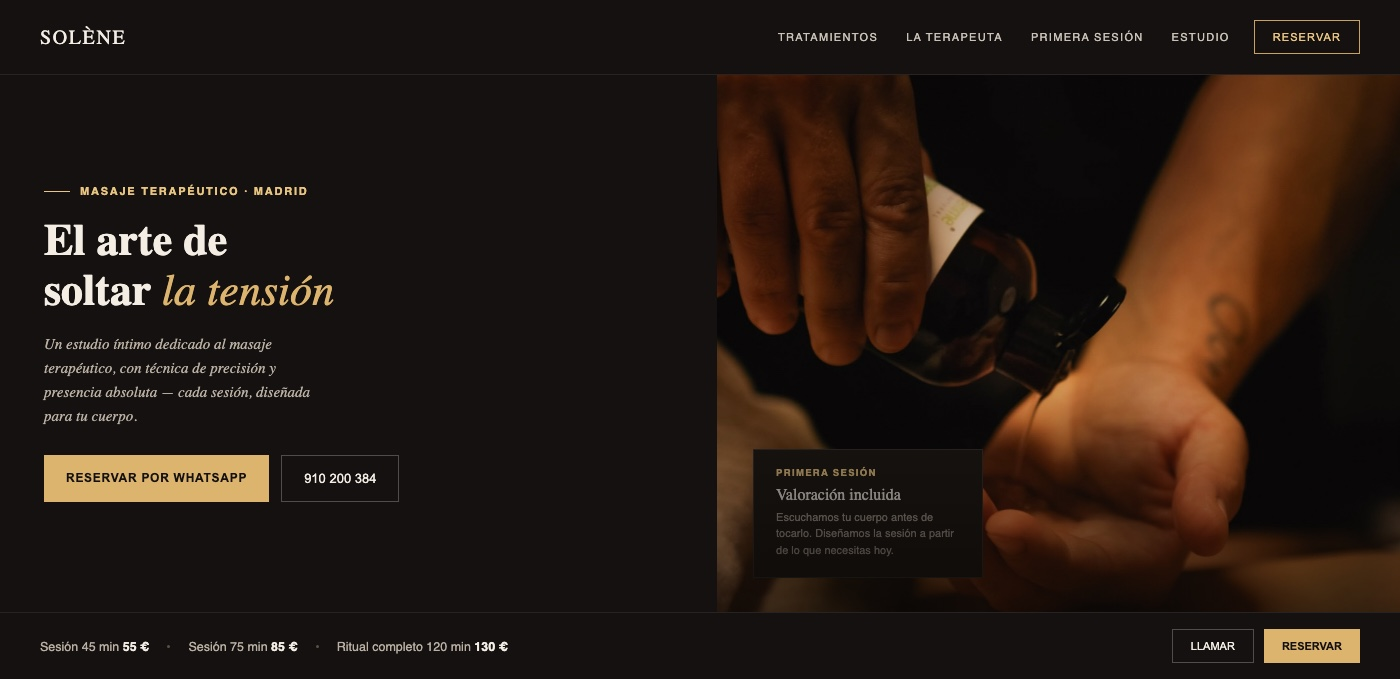
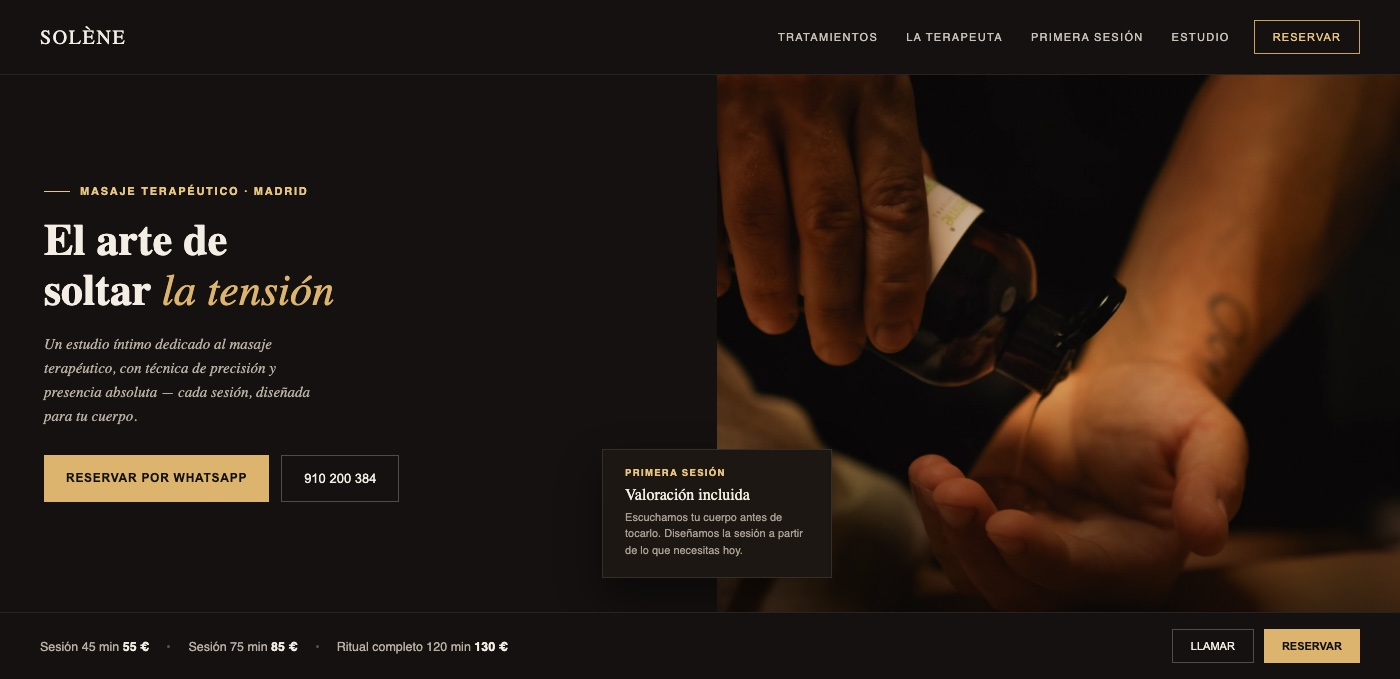
Desplaza la tarjeta "Primera sesión" del mockup: mitad fuera de la foto, mitad dentro
Antes tapaba el punto focal de la imagen (la mano recibiendo el aceite). Ahora cruza el borde entre el panel de texto y la foto, dejando libre esa zona.

Changed region(s): [[0.43, 0.6495, 0.7064, 0.866], [0.6757, 0.8351, 0.7064, 0.866]]

diff --git a/mockups/solene-mockup.html b/mockups/solene-mockup.html
@@ -15,7 +15,7 @@
   .nav-right{display:flex;align-items:center}
   .btn-nav{background:transparent;border:1px solid #c9a35a;color:#e8c581;font-size:11px;letter-spacing:0.1em;padding:10px 18px;font-weight:500}
 
-  .hero{flex:1;display:grid;grid-template-columns:1.05fr 1fr;overflow:hidden}
+  .hero{flex:1;display:grid;grid-template-columns:1.05fr 1fr;overflow:hidden;position:relative}
   .hero-text{padding:36px 44px;display:flex;flex-direction:column;justify-content:center;position:relative}
   .kicker{display:flex;align-items:center;gap:10px;color:#e8c581;font-size:11px;letter-spacing:0.16em;font-weight:600;margin-bottom:18px}
   .kicker::before{content:'';width:26px;height:1px;background:#e8c581}
@@ -31,8 +31,8 @@
   .hero-photo::after{content:'';position:absolute;inset:0;
     background:linear-gradient(0deg, rgba(10,7,6,0.75) 0%, rgba(10,7,6,0.15) 45%, rgba(10,7,6,0.35) 100%);}
 
-  .session-card{position:absolute;left:36px;bottom:34px;background:#1c1712;border:1px solid rgba(255,255,255,0.1);
-    padding:18px 22px;max-width:230px}
+  .session-card{position:absolute;left:calc(1.05/2.05*100% - 115px);bottom:34px;background:#1c1712;border:1px solid rgba(255,255,255,0.1);
+    padding:18px 22px;width:230px;box-shadow:0 20px 40px rgba(0,0,0,0.45)}
   .session-kicker{color:#e8c581;font-size:9.5px;letter-spacing:0.14em;font-weight:600;margin-bottom:8px}
   .session-title{font-family:'Playfair Display',serif;font-size:16px;color:#f3ede4;margin-bottom:6px}
   .session-desc{font-size:11px;line-height:1.5;color:#a89f92}
@@ -71,12 +71,11 @@
         <button class="btn-outline">910 200 384</button>
       </div>
     </div>
-    <div class="hero-photo">
-      <div class="session-card">
-        <div class="session-kicker">PRIMERA SESIÓN</div>
-        <div class="session-title">Valoración incluida</div>
-        <div class="session-desc">Escuchamos tu cuerpo antes de tocarlo. Diseñamos la sesión a partir de lo que necesitas hoy.</div>
-      </div>
+    <div class="hero-photo"></div>
+    <div class="session-card">
+      <div class="session-kicker">PRIMERA SESIÓN</div>
+      <div class="session-title">Valoración incluida</div>
+      <div class="session-desc">Escuchamos tu cuerpo antes de tocarlo. Diseñamos la sesión a partir de lo que necesitas hoy.</div>
     </div>
   </div>
 

diff --git a/contacto.html b/contacto.html
@@ -25,7 +25,7 @@
 <link rel="preconnect" href="https://fonts.googleapis.com">
 <link rel="stylesheet" href="https://fonts.googleapis.com/css2?family=Inter:wght@300;400;500;600;700;800&family=Lexend:wght@200;300;400;500;600&display=swap">
 <link rel="stylesheet" href="https://unpkg.com/@phosphor-icons/web@2.1.1/src/light/style.css">
-<link rel="stylesheet" href="style.css?v=1788331467">
+<link rel="stylesheet" href="style.css?v=1788331660">
 <script type="application/ld+json">
 {
   "@context": "https://schema.org",
@@ -166,7 +166,7 @@
   </div>
 </footer>
 
-<script src="contacto.js?v=1788331467"></script>
-<script src="script.js?v=1788331467"></script>
+<script src="contacto.js?v=1788331660"></script>
+<script src="script.js?v=1788331660"></script>
 </body>
 </html>

diff --git a/precios.html b/precios.html
@@ -25,7 +25,7 @@
 <link rel="preconnect" href="https://fonts.googleapis.com">
 <link rel="stylesheet" href="https://fonts.googleapis.com/css2?family=Inter:wght@300;400;500;600;700;800&family=Lexend:wght@200;300;400;500;600&display=swap">
 <link rel="stylesheet" href="https://unpkg.com/@phosphor-icons/web@2.1.1/src/light/style.css">
-<link rel="stylesheet" href="style.css?v=1788331467">
+<link rel="stylesheet" href="style.css?v=1788331660">
 <script type="application/ld+json">
 {
   "@context": "https://schema.org",
@@ -477,7 +477,7 @@
   </div>
 </footer>
 
-<script src="contacto.js?v=1788331467"></script>
-<script src="script.js?v=1788331467"></script>
+<script src="contacto.js?v=1788331660"></script>
+<script src="script.js?v=1788331660"></script>
 </body>
 </html>

diff --git a/proyectos.html b/proyectos.html
@@ -25,7 +25,7 @@
 <link rel="preconnect" href="https://fonts.googleapis.com">
 <link rel="stylesheet" href="https://fonts.googleapis.com/css2?family=Inter:wght@300;400;500;600;700;800&family=Lexend:wght@200;300;400;500;600&display=swap">
 <link rel="stylesheet" href="https://unpkg.com/@phosphor-icons/web@2.1.1/src/light/style.css">
-<link rel="stylesheet" href="style.css?v=1788331467">
+<link rel="stylesheet" href="style.css?v=1788331660">
 <script type="application/ld+json">
 {
   "@context": "https://schema.org",
@@ -276,6 +276,6 @@
   <img src="" alt="" class="proj-lightbox-img">
 </div>
 
-<script src="script.js?v=1788331467"></script>
+<script src="script.js?v=1788331660"></script>
 </body>
 </html>

diff --git a/auditoria.html b/auditoria.html
@@ -25,7 +25,7 @@
 <link rel="preconnect" href="https://fonts.googleapis.com">
 <link rel="stylesheet" href="https://fonts.googleapis.com/css2?family=Inter:wght@300;400;500;600;700;800&family=Lexend:wght@200;300;400;500;600&display=swap">
 <link rel="stylesheet" href="https://unpkg.com/@phosphor-icons/web@2.1.1/src/light/style.css">
-<link rel="stylesheet" href="style.css?v=1788331467">
+<link rel="stylesheet" href="style.css?v=1788331660">
 <script type="application/ld+json">
 {
   "@context": "https://schema.org",
@@ -333,6 +333,6 @@
   </div>
 </footer>
 
-<script src="script.js?v=1788331467"></script>
+<script src="script.js?v=1788331660"></script>
 </body>
 </html>

diff --git a/index.html b/index.html
@@ -25,7 +25,7 @@
 <link rel="preconnect" href="https://fonts.googleapis.com">
 <link rel="stylesheet" href="https://fonts.googleapis.com/css2?family=Inter:wght@300;400;500;600;700;800&family=Lexend:wght@200;300;400;500;600&display=swap">
 <link rel="stylesheet" href="https://unpkg.com/@phosphor-icons/web@2.1.1/src/light/style.css">
-<link rel="stylesheet" href="style.css?v=1788331467">
+<link rel="stylesheet" href="style.css?v=1788331660">
 <script type="application/ld+json">
 {
   "@context": "https://schema.org",
@@ -314,6 +314,6 @@
   </div>
 </footer>
 
-<script src="script.js?v=1788331467"></script>
+<script src="script.js?v=1788331660"></script>
 </body>
 </html>

diff --git a/servicios.html b/servicios.html
@@ -25,7 +25,7 @@
 <link rel="preconnect" href="https://fonts.googleapis.com">
 <link rel="stylesheet" href="https://fonts.googleapis.com/css2?family=Inter:wght@300;400;500;600;700;800&family=Lexend:wght@200;300;400;500;600&display=swap">
 <link rel="stylesheet" href="https://unpkg.com/@phosphor-icons/web@2.1.1/src/light/style.css">
-<link rel="stylesheet" href="style.css?v=1788331467">
+<link rel="stylesheet" href="style.css?v=1788331660">
 <script type="application/ld+json">
 {
   "@context": "https://schema.org",
@@ -341,6 +341,6 @@
   </div>
 </footer>
 
-<script src="script.js?v=1788331467"></script>
+<script src="script.js?v=1788331660"></script>
 </body>
 </html>

diff --git a/aviso-legal.html b/aviso-legal.html
@@ -25,7 +25,7 @@
 <link rel="preconnect" href="https://fonts.googleapis.com">
 <link rel="stylesheet" href="https://fonts.googleapis.com/css2?family=Inter:wght@300;400;500;600;700;800&family=Lexend:wght@200;300;400;500;600&display=swap">
 <link rel="stylesheet" href="https://unpkg.com/@phosphor-icons/web@2.1.1/src/light/style.css">
-<link rel="stylesheet" href="style.css?v=1788331467">
+<link rel="stylesheet" href="style.css?v=1788331660">
 </head>
 <body>
 
@@ -116,6 +116,6 @@
   </div>
 </footer>
 
-<script src="script.js?v=1788331467"></script>
+<script src="script.js?v=1788331660"></script>
 </body>
 </html>

diff --git a/cookies.html b/cookies.html
@@ -25,7 +25,7 @@
 <link rel="preconnect" href="https://fonts.googleapis.com">
 <link rel="stylesheet" href="https://fonts.googleapis.com/css2?family=Inter:wght@300;400;500;600;700;800&family=Lexend:wght@200;300;400;500;600&display=swap">
 <link rel="stylesheet" href="https://unpkg.com/@phosphor-icons/web@2.1.1/src/light/style.css">
-<link rel="stylesheet" href="style.css?v=1788331467">
+<link rel="stylesheet" href="style.css?v=1788331660">
 </head>
 <body>
 
@@ -113,6 +113,6 @@
   </div>
 </footer>
 
-<script src="script.js?v=1788331467"></script>
+<script src="script.js?v=1788331660"></script>
 </body>
 </html>

diff --git a/privacidad.html b/privacidad.html
@@ -25,7 +25,7 @@
 <link rel="preconnect" href="https://fonts.googleapis.com">
 <link rel="stylesheet" href="https://fonts.googleapis.com/css2?family=Inter:wght@300;400;500;600;700;800&family=Lexend:wght@200;300;400;500;600&display=swap">
 <link rel="stylesheet" href="https://unpkg.com/@phosphor-icons/web@2.1.1/src/light/style.css">
-<link rel="stylesheet" href="style.css?v=1788331467">
+<link rel="stylesheet" href="style.css?v=1788331660">
 </head>
 <body>
 
@@ -123,6 +123,6 @@
   </div>
 </footer>
 
-<script src="script.js?v=1788331467"></script>
+<script src="script.js?v=1788331660"></script>
 </body>
 </html>
